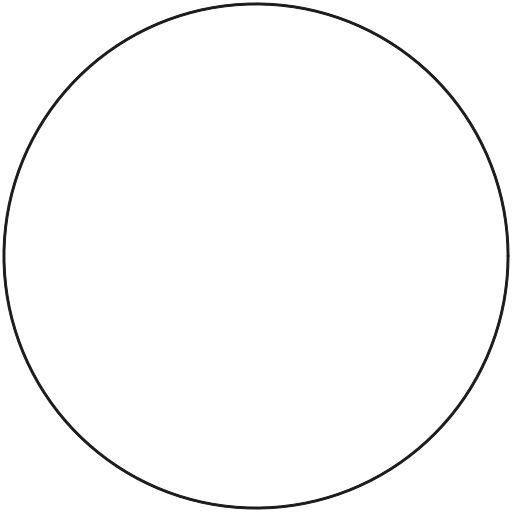
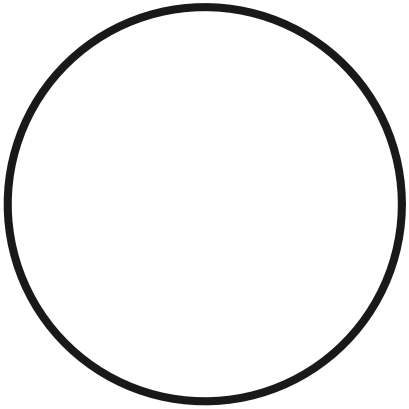
other: Created python script to quickly generate orbit sprites for PlanetsLib

Changed region(s): [[0.0, 0.0, 0.9976, 0.9976]]

diff --git a/graphics/orbits/circle_generator.py b/graphics/orbits/circle_generator.py
@@ -1,0 +1,43 @@
+import numpy as np
+import matplotlib.pyplot as plt
+import os
+import math
+
+def generate_circle(distance=1.0, thickness=0.1, width=1, resolution=1000, output_file="circle.png"):
+    radius=distance*64
+    resolution=resolution/3.696
+    if thickness <= 0 or radius <= 0:
+        raise ValueError("Radius and thickness must be positive.")
+    
+    # Generate the outer and inner circles
+    theta = np.linspace(0, 2 * np.pi, math.floor(resolution))
+    outer_x = (radius + thickness / 2) * np.cos(theta) * width
+    outer_y = (radius + thickness / 2) * np.sin(theta)
+    inner_x = (radius - thickness / 2) * np.cos(theta) * width
+    inner_y = (radius - thickness / 2) * np.sin(theta)
+
+    # Create the figure and axis
+    fig, ax = plt.subplots()
+    ax.set_aspect('equal')
+    # ax.fill(outer_x, outer_y, color='blue', label='Outer Boundary')
+    # ax.fill(inner_x, inner_y, color='none', label='Inner Boundary')
+
+
+    from matplotlib.patches import Polygon
+    vertices = np.column_stack((np.append(outer_x, inner_x[::-1]), np.append(outer_y, inner_y[::-1])))
+    ring = Polygon(vertices, closed=True, color='#191919', lw=thickness/2)
+    ax.add_patch(ring)
+
+    # Adjust plot limits and remove axes
+    padding = 1
+    ax.set_xlim(-(radius + thickness  + padding), radius + thickness  + padding)
+    ax.set_ylim(-(radius + thickness  + padding), radius + thickness  + padding)
+    ax.axis('off')
+
+    # Save to file
+    plt.savefig(output_file, bbox_inches="tight",pad_inches=0, dpi=resolution,transparent=True)
+    plt.close()
+
+    print(f"Circle saved to {os.path.abspath(output_file)}")
+
+

diff --git a/graphics/orbits/generate_circles.py b/graphics/orbits/generate_circles.py
@@ -1,0 +1,6 @@
+from circle_generator import generate_circle
+
+
+#generate_circle(radius=2240, thickness=0.5, width=1, resolution=4480, output_file="output/orbits/orbit-aquilo.png")
+
+generate_circle(distance=1.6, thickness=3, width=1, resolution=512*(1.6/2), output_file="orbit-muluna.png")
